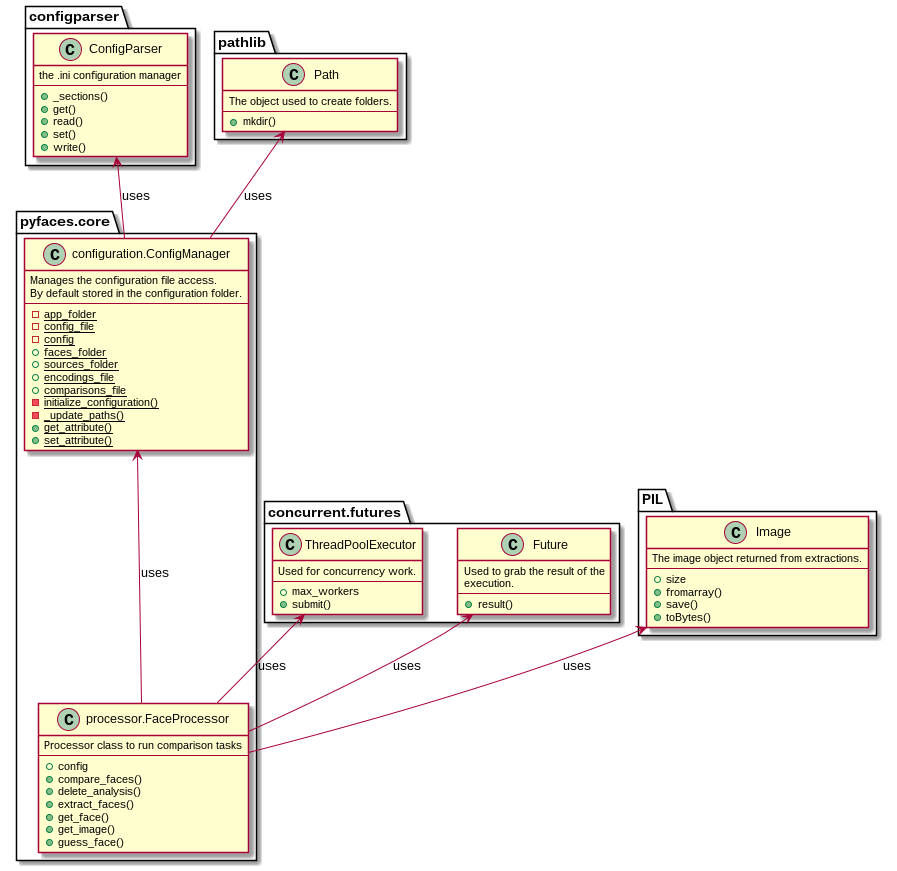
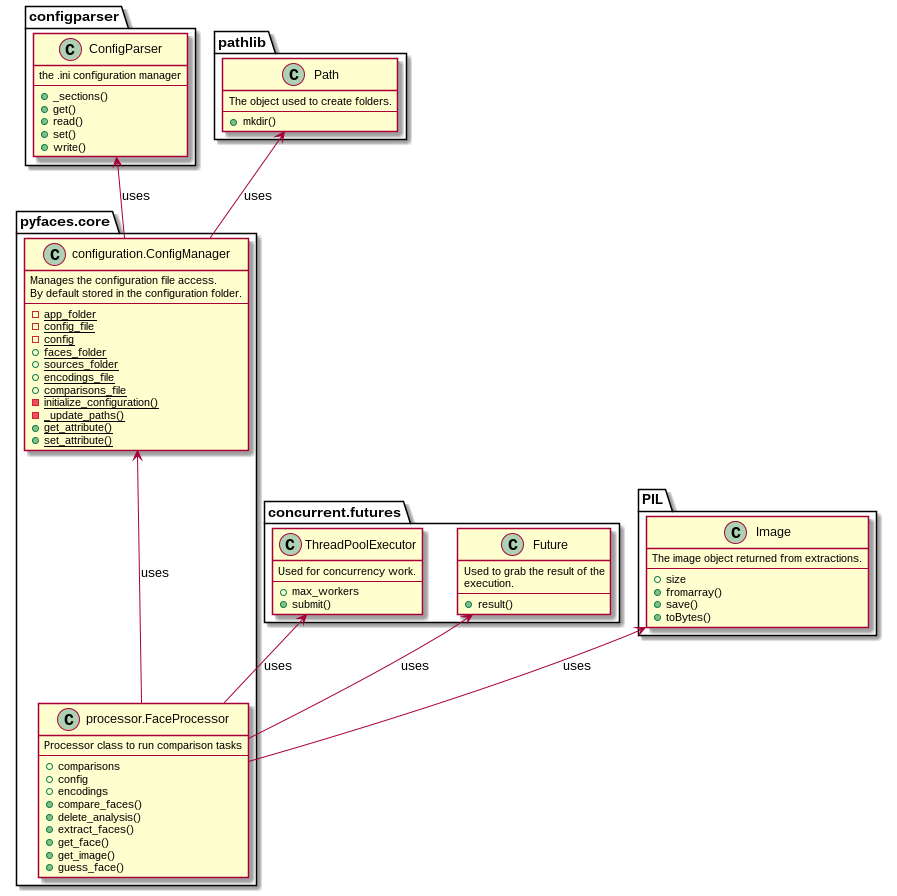
Update API for comparisons and information

diff --git a/pyfaces/core/processor.py b/pyfaces/core/processor.py
@@ -93,34 +93,37 @@ class FaceProcessor:
         # Calculate distances
         new_numpy = np.array(self.encodings[face_path_2]["encodings"])
 
-        distance = float(
-            face_recognition.face_distance(
-                self.encodings[face_path_1]["encodings"],    # It SHOULD BE a list of lists
-                new_numpy                               # It SHOULD BE a numpy.array
+        try:    
+            distance = float(
+                face_recognition.face_distance(
+                    self.encodings[face_path_1]["encodings"],       # It SHOULD BE a list of lists
+                    new_numpy                                       # It SHOULD BE a numpy.array
+                )
             )
-        )
 
-        # Persisting distance
-        with open(self.config.comparisons_file, "r") as input_file:
-            self.comparisons = json.load(input_file)
+            # Persisting distance
+            with open(self.config.comparisons_file, "r") as input_file:
+                self.comparisons = json.load(input_file)
 
-        if face_path_1 not in self.comparisons.keys():
-            self.comparisons[face_path_1] = {}
-        self.comparisons[face_path_1].update(
-            {
-                face_path_2: distance
-            }
-        )
-        if face_path_2 not in self.comparisons.keys():
-            self.comparisons[face_path_2] = {}
-        self.comparisons[face_path_2].update(
-            {
-                face_path_1: distance
-            }
-        )
+            if face_path_1 not in self.comparisons.keys():
+                self.comparisons[face_path_1] = {}
+            self.comparisons[face_path_1].update(
+                {
+                    face_path_2: distance
+                }
+            )
+            if face_path_2 not in self.comparisons.keys():
+                self.comparisons[face_path_2] = {}
+            self.comparisons[face_path_2].update(
+                {
+                    face_path_1: distance
+                }
+            )
 
-        with open(self.config.comparisons_file, "w") as output_file:
-            json.dump(self.comparisons, output_file)
+            with open(self.config.comparisons_file, "w") as output_file:
+                json.dump(self.comparisons, output_file)
+        except TypeError:
+            return 1 
 
         return distance
 
@@ -238,9 +241,10 @@ class FaceProcessor:
 
             if l != []:
                 self.encodings[full_face_path] = {
-                    "container_file": full_image_path,
                     "copied_md5": face_md5,
-                    "copied_path": full_face_path,
+                    "copied_original_file": full_image_path,
+                    "face_path": full_face_path,
+                    "original_image_path": image_path,
                     "position": {
                         "top": max(top-20, 0),
                         "bottom": min(bottom+20, max_height),
@@ -279,7 +283,7 @@ class FaceProcessor:
             FileNotFoundException.
         """
         try:
-            return self.encodings["face_path"]
+            return self.encodings[face_path]
         except KeyError:
             raise Exception(f"No encodings found for: '{face_path}'")
 
@@ -349,36 +353,28 @@ class FaceProcessor:
         if new_face_path not in self.encodings.keys():
             raise ValueError(f"Image '{new_face_path}' is not a registered face. Try extracting faces first.")
 
+
         task = {
             "counter": len(self.encodings)-1,
             "comparisons": []
         }
 
-        # Check previous comparisons
-        with concurrent.futures.ThreadPoolExecutor(max_workers=int(self.config.get_attribute("num_threads"))) as executor:
-            all_futures = {}
-            for known_face in sorted(self.encodings):
-                if new_face_path != known_face:
-                    all_futures[
-                        executor.submit(
-                            self.compare_faces,
-                            new_face_path,
-                            known_face,
-                            force_recalculation
-                        )
-                    ] = known_face
-
-            for future in concurrent.futures.as_completed(all_futures):
-                comparison = all_futures[future]
+        for known_face in sorted(self.encodings):
+            if known_face != new_face_path:
+                similarity = self.compare_faces (
+                    new_face_path,
+                    known_face,
+                    force_recalculation
+                )
                 try:
                     task["comparisons"].append(
                         {
-                            "known_face": comparison,
-                            "similarity": future.result()
+                            "known_face": known_face,
+                            "similarity": similarity
                         }
                     )
                 except Exception as exc:
-                    print(warning(f'{comparison} generated an exception: {exc}'))
+                    print(warning(f'{known_face} generated an exception: {exc}'))
 
         task["comparisons"] = sorted(task["comparisons"], key=lambda k: k["similarity"])
         return task

diff --git a/pyfaces/server.py b/pyfaces/server.py
@@ -210,6 +210,9 @@ def main(params=None):
     except KeyboardInterrupt:
         print()
         print("Manually stopped by the user.")
+    except OSError as e:
+        print()
+        print(f"Something happened: '{e}'.")
 
 
 if __name__ == '__main__':

diff --git a/pyfaces/__init__.py b/pyfaces/__init__.py
@@ -17,4 +17,4 @@
 #
 ################################################################################
 
-__version__ = "0.2.0"
+__version__ = "0.3.0"

diff --git a/README.md b/README.md
@@ -1,5 +1,5 @@
-pyfaces
-========
+Pyfaces
+=======
 
 Copyright (C) 2020  F. Brezo ([@febrezo](https://twitter.com/febrezo))
 
